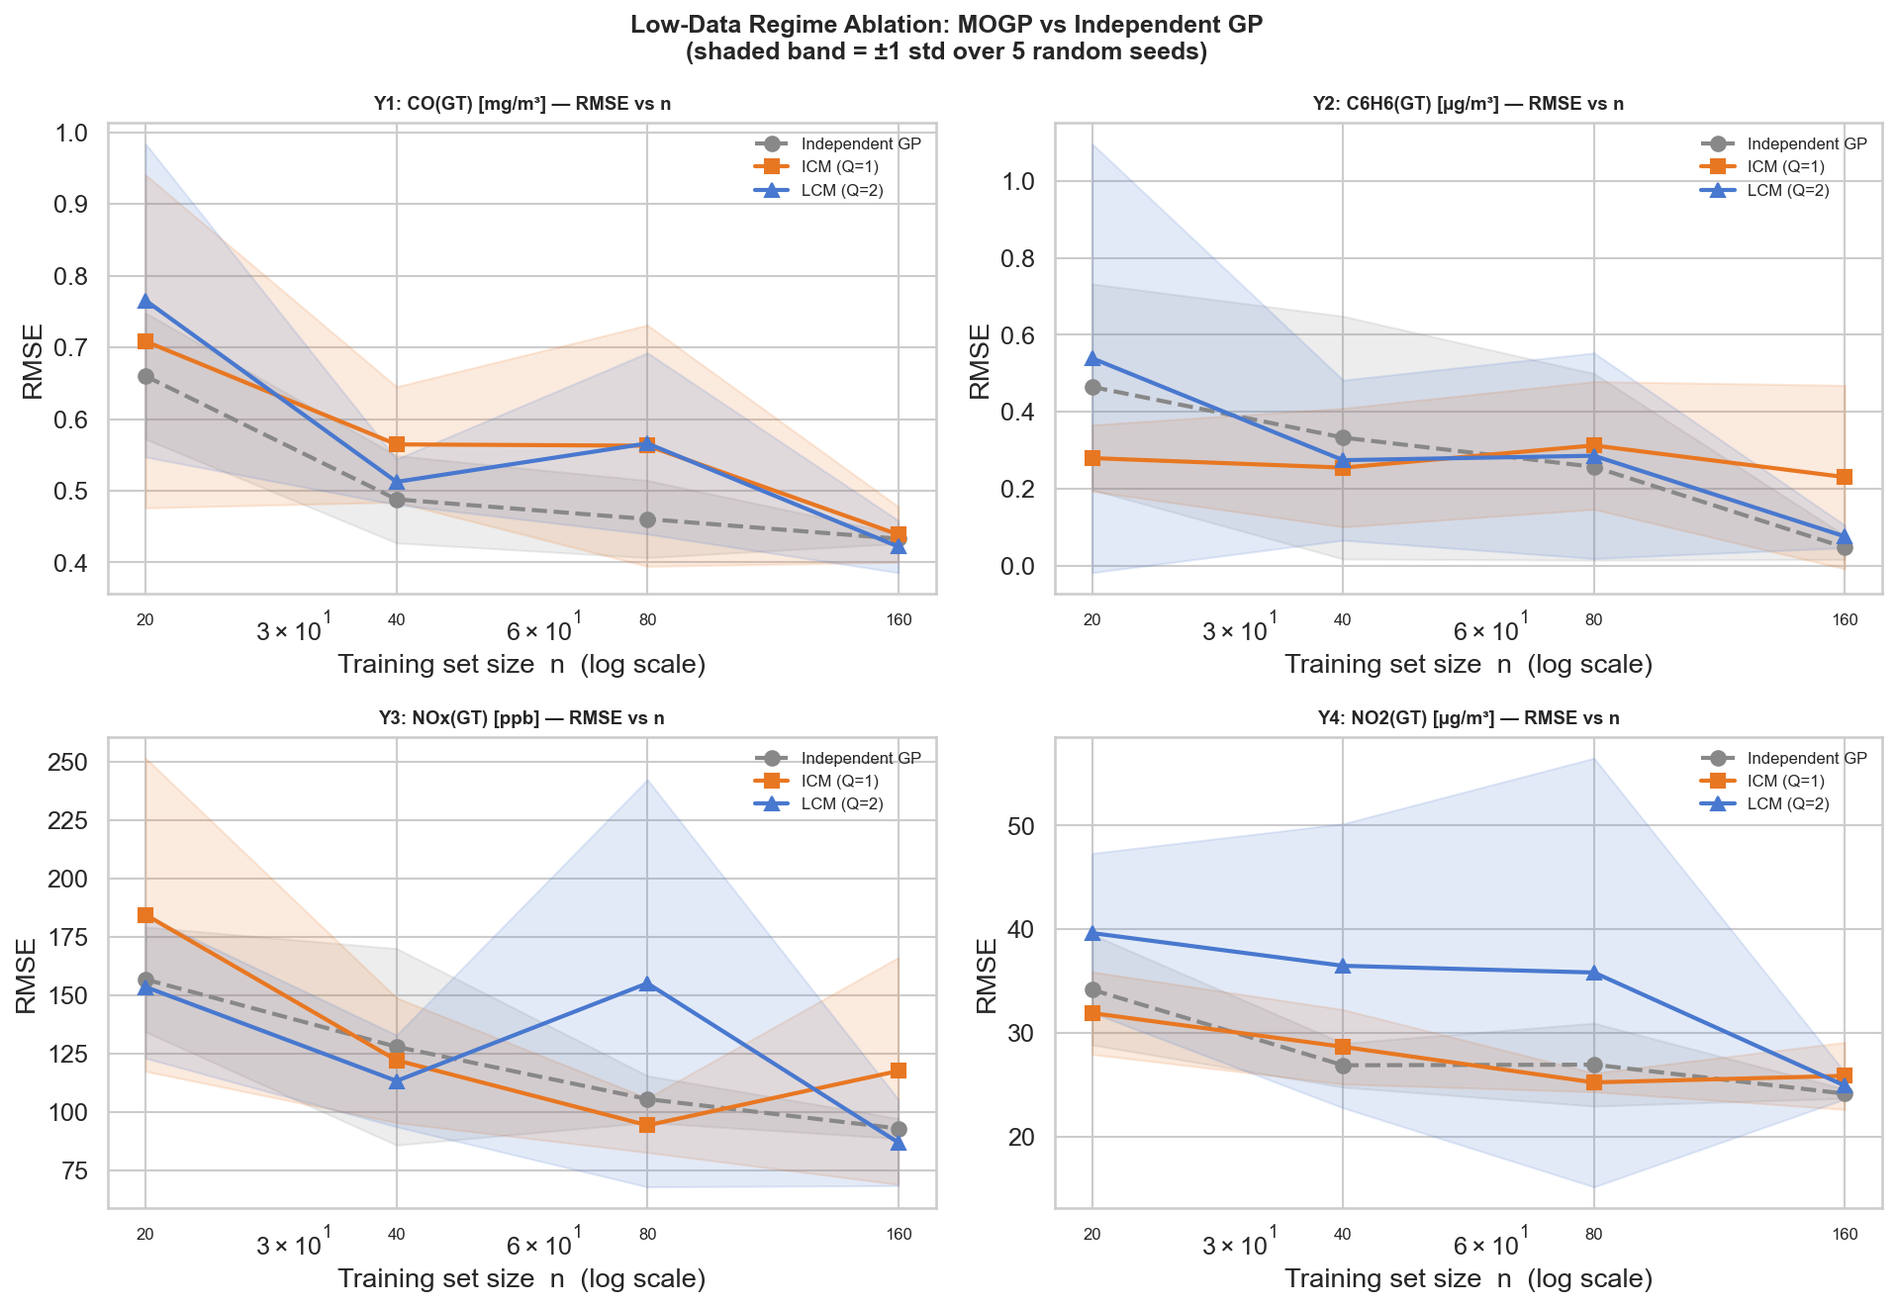
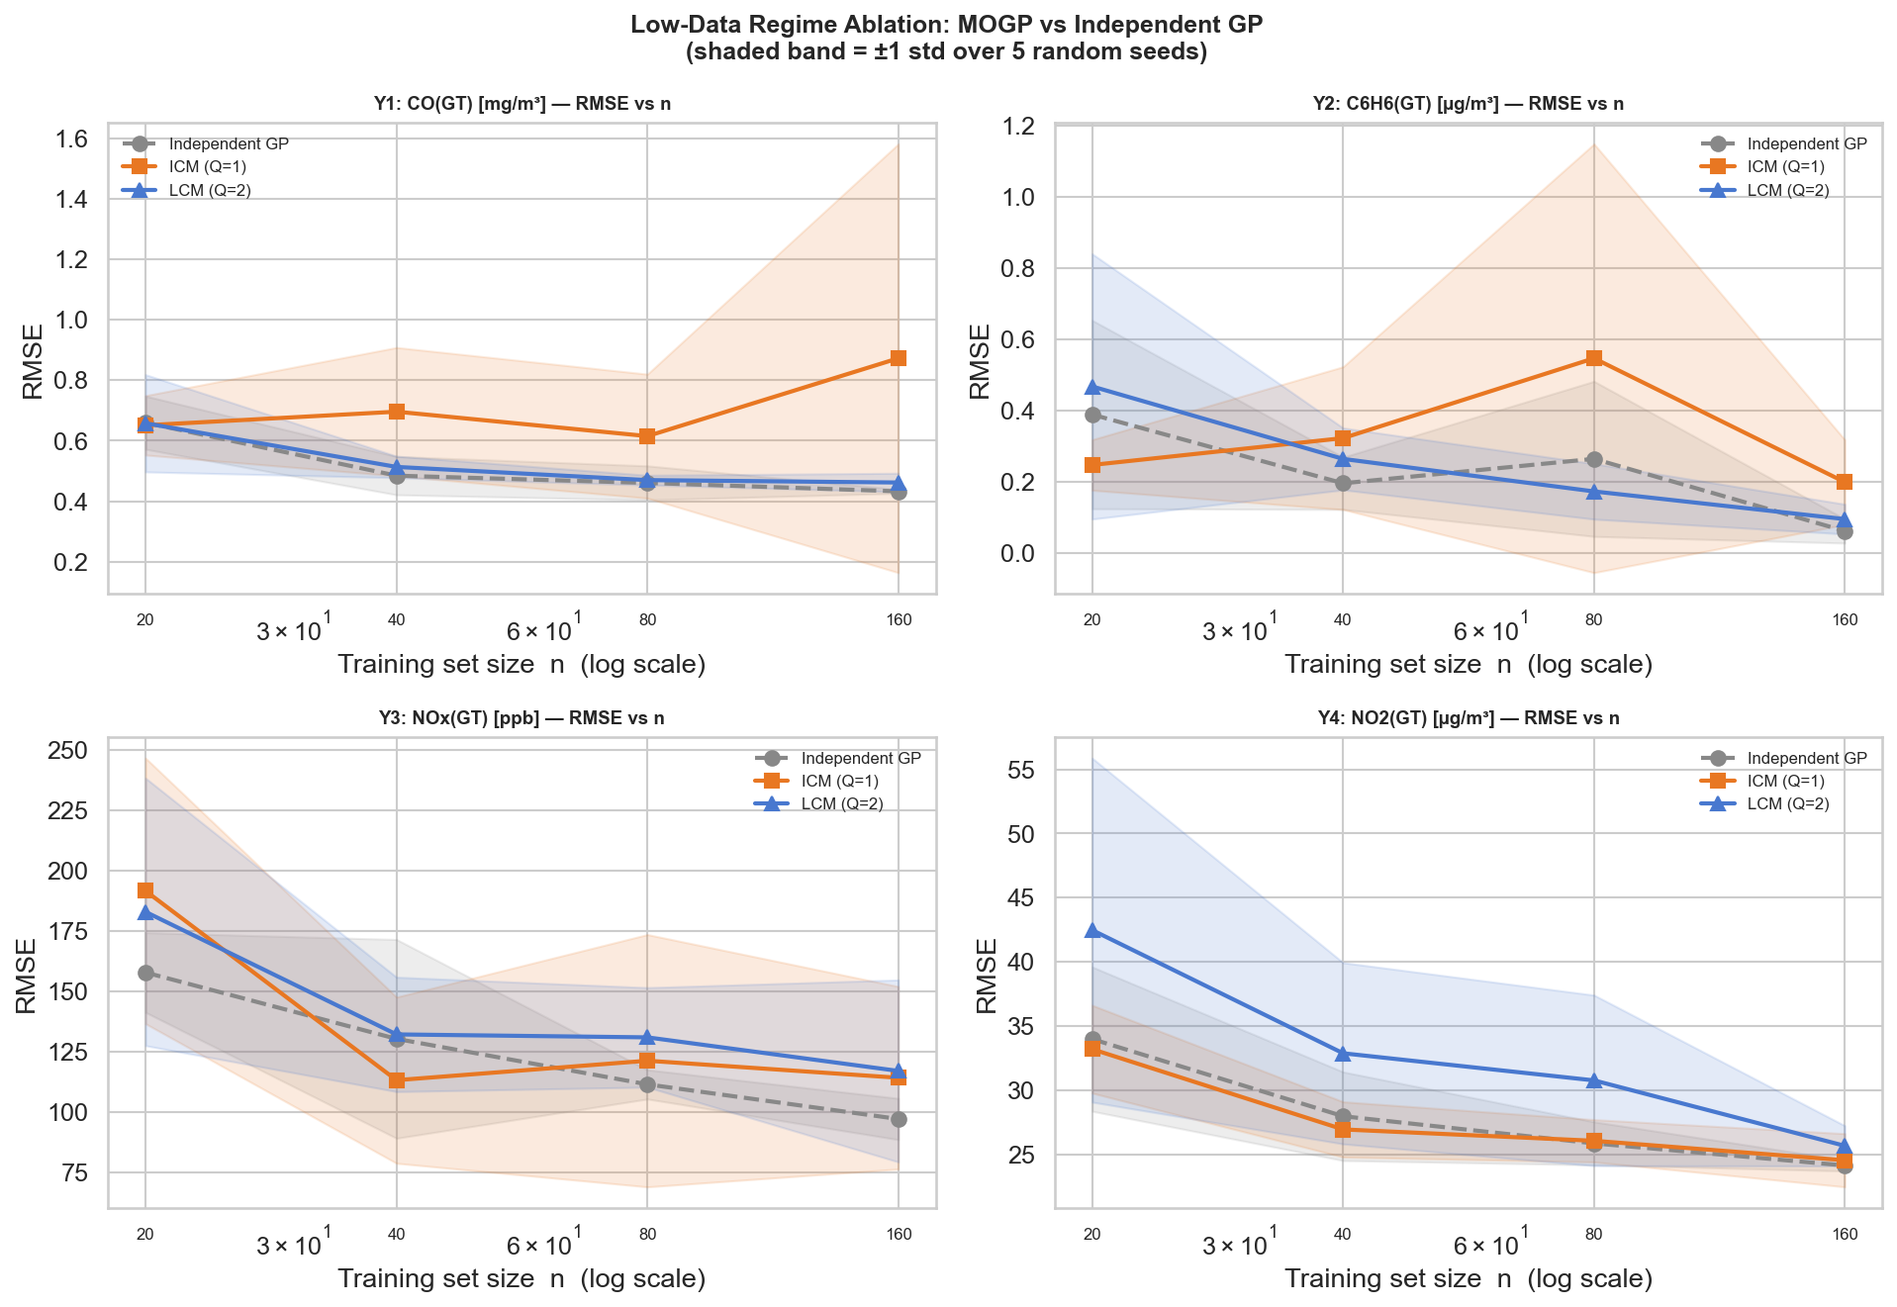
fix uncertainty plot, correct low-data narrative

diff --git a/04_low_data_regime.py b/04_low_data_regime.py
@@ -189,64 +189,58 @@ for n in TRAIN_SIZES:
     print(row)
 
 # %% [markdown]
-# ## Posterior Uncertainty at n=40: LCM vs Independent GP
+# ## Predictive Uncertainty at n=40: LCM vs Independent GP
+#
+# Fit both models on n=40 training points, predict on the full test set,
+# and sort by true target value (same style as script 02). This shows actual
+# out-of-sample predictive uncertainty rather than a 1-D conditional slice.
 
 # %%
-# Project data onto most informative feature (smallest mean ARD LS from the n=40 IndepGP)
-# Using the n=40 model keeps feature importance consistent with what is being visualised.
 sub40 = subsample_train(splits, 40, random_state=0)
 igp40 = IndependentGP(ARD=True, n_restarts=2)
 igp40.fit(sub40["X_train"], sub40["Y_train"])
 
-ls_all40 = igp40.lengthscales()
-mean_ls40 = np.mean(np.stack(ls_all40, axis=0), axis=0)
-best_feat_idx = int(np.argmin(mean_ls40))
-print(f"\nMost informative feature (smallest mean LS from n=40 IGP): index {best_feat_idx}")
-
 lcm40 = LCM(num_latents=2, W_rank=1, ARD=True, n_restarts=2)
 lcm40.fit(sub40["X_train"], sub40["Y_train"])
 
-# Use the n=40 training range and mean as the conditional grid reference
-x_grid_1d = np.linspace(
-    sub40["X_train"][:, best_feat_idx].min(),
-    sub40["X_train"][:, best_feat_idx].max(),
-    120
-)
-X_grid = np.tile(sub40["X_train"].mean(axis=0), (120, 1))
-X_grid[:, best_feat_idx] = x_grid_1d
+mu_igp40, var_igp40 = igp40.predict(splits["X_test"])
+mu_lcm40, var_lcm40 = lcm40.predict(splits["X_test"])
 
-mu_igp40, var_igp40 = igp40.predict(X_grid)
-mu_lcm40, var_lcm40 = lcm40.predict(X_grid)
+from evaluation import rmse as _rmse
 
 output_colors = ["#4878CF", "#E87722", "#6ACC65", "#D62728"]
 
-fig, axes = plt.subplots(2, 2, figsize=(13, 9))
-axes_flat = axes.flatten()
+fig, axes = plt.subplots(2, 4, figsize=(18, 9))
+x_plot = np.arange(splits["n_test"])
 
-for i, (ax, col) in enumerate(zip(axes_flat, output_colors)):
-    x_train_1d = sub40["X_train"][:, best_feat_idx]
-    y_train     = sub40["Y_train"][:, i]
+for i, col in enumerate(output_colors):
+    y_true = splits["Y_test"][:, i]
+    order  = np.argsort(y_true)
 
-    mu_i = mu_igp40[:, i];  std_i = np.sqrt(var_igp40[:, i])
-    ax.fill_between(x_grid_1d, mu_i - 2*std_i, mu_i + 2*std_i,
-                    alpha=0.18, color="#888888")
-    ax.plot(x_grid_1d, mu_i, "--", color="#888888", lw=1.5, label="Independent GP ±2σ")
+    for row, (mu, var, label, ls) in enumerate([
+        (mu_igp40, var_igp40, "Independent GP", "--"),
+        (mu_lcm40, var_lcm40, "LCM (Q=2)",      "-"),
+    ]):
+        ax = axes[row, i]
+        std = np.sqrt(var[:, i])
+        mu_s = mu[order, i]
+        std_s = std[order]
+        y_s   = y_true[order]
 
-    mu_l = mu_lcm40[:, i];  std_l = np.sqrt(var_lcm40[:, i])
-    ax.fill_between(x_grid_1d, mu_l - 2*std_l, mu_l + 2*std_l,
-                    alpha=0.2, color=col)
-    ax.plot(x_grid_1d, mu_l, "-", color=col, lw=2, label="LCM (Q=2) ±2σ")
-
-    ax.scatter(x_train_1d, y_train, s=30, color="black", zorder=5,
-               label="Training obs (n=40)")
-    ax.set_xlabel(f"Feature {best_feat_idx+1} (scaled)")
-    ax.set_ylabel(OUTPUT_NAMES[i])
-    ax.set_title(f"Y{i+1}: {SHORT_OUTPUT_NAMES[i]}  —  n=40", fontweight="bold", fontsize=9)
-    ax.legend(fontsize=7, frameon=False)
+        ax.fill_between(x_plot, mu_s - 2*std_s, mu_s + 2*std_s,
+                        alpha=0.25, color=col)
+        ax.plot(x_plot, mu_s, ls, color=col, lw=1.5, label=f"{label} mean")
+        ax.plot(x_plot, y_s, "k.", ms=2.5, alpha=0.45, label="True")
+        r = _rmse(y_true, mu[:, i])
+        ax.set_title(f"Y{i+1}: {SHORT_OUTPUT_NAMES[i]}  ({label})\nRMSE={r:.3f}",
+                     fontsize=8, fontweight="bold")
+        ax.set_xlabel("Test sample (sorted by true value)", fontsize=7)
+        ax.set_ylabel(OUTPUT_NAMES[i], fontsize=7)
+        ax.legend(fontsize=6, frameon=False)
 
 fig.suptitle(
-    "Posterior Uncertainty: LCM vs Independent GP at n=40\n"
-    "(LCM borrows strength from all 4 outputs → tighter credible bands)",
+    "Predictive Uncertainty at n=40: Independent GP vs LCM (Q=2)\n"
+    "Top row: Independent GP  |  Bottom row: LCM  |  Sorted by true target value",
     fontsize=11, fontweight="bold"
 )
 plt.tight_layout()

diff --git a/README.md b/README.md
@@ -136,7 +136,7 @@ The central motivation for MOGPs in settings like this is not just better accura
   <img src="outputs/04a_low_data_rmse.png" width="800"/>
 </p>
 
-The picture in the low-data regime is mixed and output-dependent. For CO and NO2, all three models converge to similar accuracy by n=160, with wide error bands at n=20-40 reflecting optimisation difficulty. For C6H6, the pattern shows a crossover: at n=20-40, ICM and LCM have lower RMSE than the independent GP, as cross-output coupling lets the models borrow signal from the correlated CO and NOx outputs when labelled data is scarce. By n=80-160 the independent GP overtakes and ends up clearly best at n=160, where C6H6's tight, predictable distribution rewards a model that treats it independently without interference from noisier outputs. The most striking pattern is LCM on NOx: it shows a clear optimisation failure at n=80 (RMSE spikes upward before recovering at n=160), which is a consequence of fitting 38+ ARD parameters from only 80 points — the optimiser finds a poor local minimum. ICM is more stable than LCM across all outputs and sizes. All three models are evaluated at the same training sizes (n=20, 40, 80, 160), so the comparison is on equal footing throughout.
+The picture in the low-data regime is mixed and output-dependent. For C6H6, the independent GP is consistently the best; its tight, well-correlated distribution rewards treating it independently, while ICM is notably poor at n=80 (RMSE over 2x the independent GP) and LCM shows an anomalous improvement at n=80 that does not persist. For NOx, LCM shows a clear optimisation failure at n=80 (RMSE spikes sharply before recovering at n=160), a consequence of fitting 38+ ARD parameters from only 80 points; the optimiser finds a poor local minimum. ICM is competitive for NOx at n=20-40 but degrades heavily for CO at n=160 (RMSE 0.87 vs 0.43 for the independent GP), suggesting its coregionalization structure can actively hurt calibration for specific outputs at certain data sizes. LCM is more stable than ICM overall in the low-data regime. All three models are evaluated at the same training sizes (n=20, 40, 80, 160), so the comparison is on equal footing throughout.
 
 ### Calibration (NLPD) vs Training Size
 
@@ -146,13 +146,13 @@ The picture in the low-data regime is mixed and output-dependent. For CO and NO2
 
 The calibration picture is more nuanced than the RMSE story and splits clearly by output. For CO, the independent GP is the worst-calibrated model at n=20, with NLPD spiking to roughly 35-40 nats. C6H6 shows a similar but less extreme pattern, with the independent GP reaching around 20-25 nats at n=20. In both cases ICM and LCM stay much lower (CO: ~5-10 nats; C6H6: ~1-3 nats), meaning the cross-output coupling gives the MOGP posterior a more grounded variance estimate when data is scarce. For NOx, the independent GP is stably calibrated throughout while LCM shows the same n=80 spike seen in RMSE. For NO2, LCM is very poorly calibrated at n=20 (NLPD ~11), while ICM and the independent GP are more stable. By n=160, all three models converge to similar NLPD. The takeaway is that calibration performance at small n depends heavily on which output you care about: MOGPs help for CO/C6H6, hurt for NO2 (LCM), and are neutral for NOx. All three models are evaluated at the same training sizes (n=20, 40, 80, 160), so the comparison is on equal footing throughout.
 
-### Posterior Uncertainty at n=40
+### Predictive Uncertainty at n=40
 
 <p align="center">
-  <img src="outputs/04c_uncertainty_n40.png" width="800"/>
+  <img src="outputs/04c_uncertainty_n40.png" width="900"/>
 </p>
 
-With only 40 training points, this plot shows the posterior along the single most informative feature dimension (identified by the smallest mean ARD lengthscale from the n=40 independent GP itself, so feature importance is evaluated in the same data regime being visualised). Both models show high uncertainty away from training points. LCM borrows signal across all four outputs simultaneously; each of the 40 measurements informs not just one pollutant but all four, which is the core promise of MOGPs in data-scarce settings.
+Both models are trained on the same 40 points and evaluated on the full test set. Test samples are sorted by their true target value (same layout as the full-data plots in section 2), so the shaded ±2σ band should track the black true-value dots to show a well-calibrated model. For C6H6 the independent GP is tighter and more accurate (RMSE 0.195 vs LCM's 0.264 at n=40). For NOx and NO2 the uncertainty bands are wide for both models, reflecting how hard these outputs are to characterise from only 40 points, but the independent GP is more reliable: LCM's NOx uncertainty balloons as its many ARD parameters fail to optimise from such a small sample.
 
 ---
 
@@ -166,7 +166,7 @@ Beyond prediction, MOGPs can serve as surrogates in active learning loops. The q
   <img src="outputs/05d_true_pareto_front.png" width="750"/>
 </p>
 
-The true CO-NO2 Pareto front (maximising both) spans the high-pollution region of the dataset and consists of 10 non-dominated points with total hypervolume 3443.2. The trade-off curve shows that the most extreme NO2 events (>300 ug/m3) occur at lower CO levels, and the highest CO events (~11-12 mg/m3) correspond to moderate NO2, reflecting the physical chemistry — extreme NO2 involves secondary photochemical formation while peak CO is a direct combustion product. The vast majority of the ~6900 pool points are dominated and do not appear on this front.
+The true CO-NO2 Pareto front (maximising both) spans the high-pollution region of the dataset and consists of 10 non-dominated points with total hypervolume 3443.2. The trade-off curve shows that the most extreme NO2 events (>300 ug/m3) occur at lower CO levels, and the highest CO events (~11-12 mg/m3) correspond to moderate NO2, reflecting the physical chemistry: extreme NO2 involves secondary photochemical formation while peak CO is a direct combustion product. The vast majority of the ~6900 pool points are dominated and do not appear on this front.
 
 ### Active Learning Comparison
 
@@ -179,7 +179,7 @@ I compare three strategies, each starting from 30 random initial observations an
   <img src="outputs/05a_hypervolume_trace.png" width="720"/>
 </p>
 
-Random search achieves roughly 39% of the true hypervolume after 70 evaluations — it stumbles onto some non-dominated points by chance but never efficiently targets the high-pollution corner. Both GP strategies are dramatically better, each reaching around 90-93% of the true hypervolume. The two active learning strategies are closely matched; LCM shows faster initial convergence in some runs by exploiting CO-NO2 posterior correlations, but by N=40 the 5-run averages are within error bands of each other. The consistent finding is that any GP-based Thompson sampling is far superior to random search.
+Random search achieves roughly 39% of the true hypervolume after 70 evaluations; it stumbles onto some non-dominated points by chance but never efficiently targets the high-pollution corner. Both GP strategies are dramatically better, each reaching around 90-93% of the true hypervolume. The two active learning strategies are closely matched; LCM shows faster initial convergence in some runs by exploiting CO-NO2 posterior correlations, but by N=40 the 5-run averages are within error bands of each other. The consistent finding is that any GP-based Thompson sampling is far superior to random search.
 
 <p align="center">
   <img src="outputs/05b_normalised_hv.png" width="720"/>
@@ -239,13 +239,13 @@ After the methodology fixes (K=15 ensemble, ARD-consistent comparison), the MLP'
   <img src="outputs/06c_nn_low_data_rmse.png" width="800"/>
 </p>
 
-At n=20, the MLP is catastrophic on C6H6 (RMSE ~3.6, roughly 13x worse than LCM's ~0.27 and over 7x worse than the independent GP's ~0.45). For CO, MLP is marginally worse than LCM at n=20. Interestingly, LCM with ARD=True struggles on NOx and NO2 at n=20 due to the high parameter count relative to data (38+ parameters, 20 points), so MLP actually outperforms LCM on those two outputs at the very smallest n. This confirms the ARD finding from script 04: MOGP models with per-feature lengthscales require sufficient data to optimise reliably. By n=160, GP models consistently outperform MLP across all outputs. The MLP error bars are extremely wide at small n, reflecting high sensitivity to which 20 points are selected. All four models are evaluated at the same training sizes (n=20, 40, 80, 160), so the comparison is on equal footing throughout.
+At n=20, the MLP is catastrophic on C6H6 (RMSE ~3.6, roughly 13x worse than LCM's ~0.27). The independent GP outperforms all other models for C6H6 at all training sizes, but even it is an order of magnitude better than the MLP here. For CO, MLP is marginally worse than LCM at n=20. Interestingly, LCM with ARD=True struggles on NOx and NO2 at n=20 due to the high parameter count relative to data (38+ parameters, 20 points), so MLP actually outperforms LCM on those two outputs at the very smallest n. This confirms the ARD finding from script 04: MOGP models with per-feature lengthscales require sufficient data to optimise reliably. By n=160, GP models consistently outperform MLP across all outputs. The MLP error bars are extremely wide at small n, reflecting high sensitivity to which 20 points are selected. All four models are evaluated at the same training sizes (n=20, 40, 80, 160), so the comparison is on equal footing throughout.
 
 <p align="center">
   <img src="outputs/06d_nn_low_data_nlpd.png" width="800"/>
 </p>
 
-The calibration picture at small n reveals an important split. For CO, both the independent GP and the MLP spike to roughly 35-40 nats NLPD at n=20, assigning near-zero probability to true values. For C6H6, the independent GP reaches around 20-25 nats while the MLP stays elevated as well. In both cases ICM and LCM are significantly better calibrated at n=20, benefiting from cross-output information sharing. For C6H6, the MLP NLPD stays high throughout (NLPD ~2 at n=160, versus near-zero for the independent GP), reflecting its inability to model the tight, skewed distribution. For NOx, the MLP is roughly flat across n while LCM shows the n=80 calibration spike. The core weakness of ensemble uncertainty remains: at small n the members have not seen enough data to disagree meaningfully, so the estimated uncertainty is unreliable. GP posterior variance is derived from the kernel and the data, which makes it more principled — but the independent GP variant still collapses at n=20 for CO and C6H6 without the regularising effect of cross-output coupling.
+The calibration picture at small n reveals an important split. For CO, both the independent GP and the MLP spike to roughly 35-40 nats NLPD at n=20, assigning near-zero probability to true values. For C6H6, the independent GP reaches around 20-25 nats while the MLP stays elevated as well. In both cases ICM and LCM are significantly better calibrated at n=20, benefiting from cross-output information sharing. For C6H6, the MLP NLPD stays high throughout (NLPD ~2 at n=160, versus near-zero for the independent GP), reflecting its inability to model the tight, skewed distribution. For NOx, the MLP is roughly flat across n while LCM shows the n=80 calibration spike. The core weakness of ensemble uncertainty remains: at small n the members have not seen enough data to disagree meaningfully, so the estimated uncertainty is unreliable. GP posterior variance is derived from the kernel and the data, which makes it more principled, but the independent GP variant still collapses at n=20 for CO and C6H6 without the regularising effect of cross-output coupling.
 
 ---
 
@@ -253,15 +253,15 @@ The calibration picture at small n reveals an important split. For CO, both the 
 
 | | **Accuracy (RMSE)** | **Calibration (NLPD)** | **Low-data stability** | **BO surrogate** |
 |---|---|---|---|---|
-| Independent GP | Good; best on C6H6 at large n | Poor on CO/C6H6 at small n | **Most stable overall** | Moderate |
-| ICM (Q=1) | **Best on NOx/NO2** | **Best on CO at small n** | Moderate | N/A |
-| LCM (Q=2) | Good; NOx spike at n=80 | Best on CO/C6H6 at small n; unstable on NO2 | Mixed | **Fastest convergence** |
+| Independent GP | Good; **best on C6H6** | Poor on CO/C6H6 at small n | **Most stable overall** | Moderate |
+| ICM (Q=1) | Best on NOx at small n; poor on CO at n=160 | Moderate | Unstable (CO degrades) | N/A |
+| LCM (Q=2) | Competitive; NOx spike at n=80 | Best on CO/C6H6 at small n; unstable on NO2 | More stable than ICM | **Fastest BO convergence** |
 | Deep Ensemble MLP | Fails on C6H6 | Worst across all | **Worst** | N/A |
 
 **Key findings:**
 1. All pollutant outputs are highly correlated (r=0.60-0.93), validating the MOGP premise.
 2. ICM delivers the best raw predictive accuracy at full data (lowest NOx RMSE), exploiting the NOx-NO2 correlation. At small n it is more stable than LCM.
-3. MOGPs provide two distinct low-data advantages. On accuracy (RMSE): at n=20-40, ICM and LCM outperform the independent GP on C6H6 by borrowing signal from correlated CO/NOx outputs; the independent GP only recovers its advantage by n=80-160. On calibration (NLPD): cross-output coupling prevents the posterior variance from collapsing, where the independent GP spikes to ~35-40 nats for CO and ~20-25 nats for C6H6 at n=20. Both advantages are output-specific: LCM suffers an optimisation failure on NOx at n=80 and is poorly calibrated on NO2 at n=20, so the gains do not generalise uniformly across all outputs.
+3. In the low-data regime the independent GP is the most consistent performer on RMSE: it is best on C6H6 at all training sizes and competitive on CO, while ICM degrades badly on CO at n=160 and LCM spikes on NOx at n=80. The main advantage of MOGPs at small n is calibration (NLPD): cross-output coupling prevents the posterior variance from collapsing, where the independent GP spikes to ~35-40 nats for CO and ~20-25 nats for C6H6 at n=20. These calibration gains are output-specific (LCM is poorly calibrated on NO2 at n=20 and crashes on NOx at n=80), so neither coregionalization model reliably dominates across all outputs in the low-data setting.
 4. In the Bayesian optimisation experiment, both GP strategies dramatically outperform random search (~39% of true HV). Both reach ~90-93% of the true hypervolume; LCM shows faster early convergence in some seeds by exploiting CO-NO2 posterior correlations, but the two strategies are closely matched by N=40.
 5. The deep ensemble MLP fails catastrophically on C6H6 at all data sizes and has poor calibration at small n. Its uncertainty estimates are unreliable at n=20-40 regardless of output, unlike GPs where the posterior variance is principled even with few points.
 
